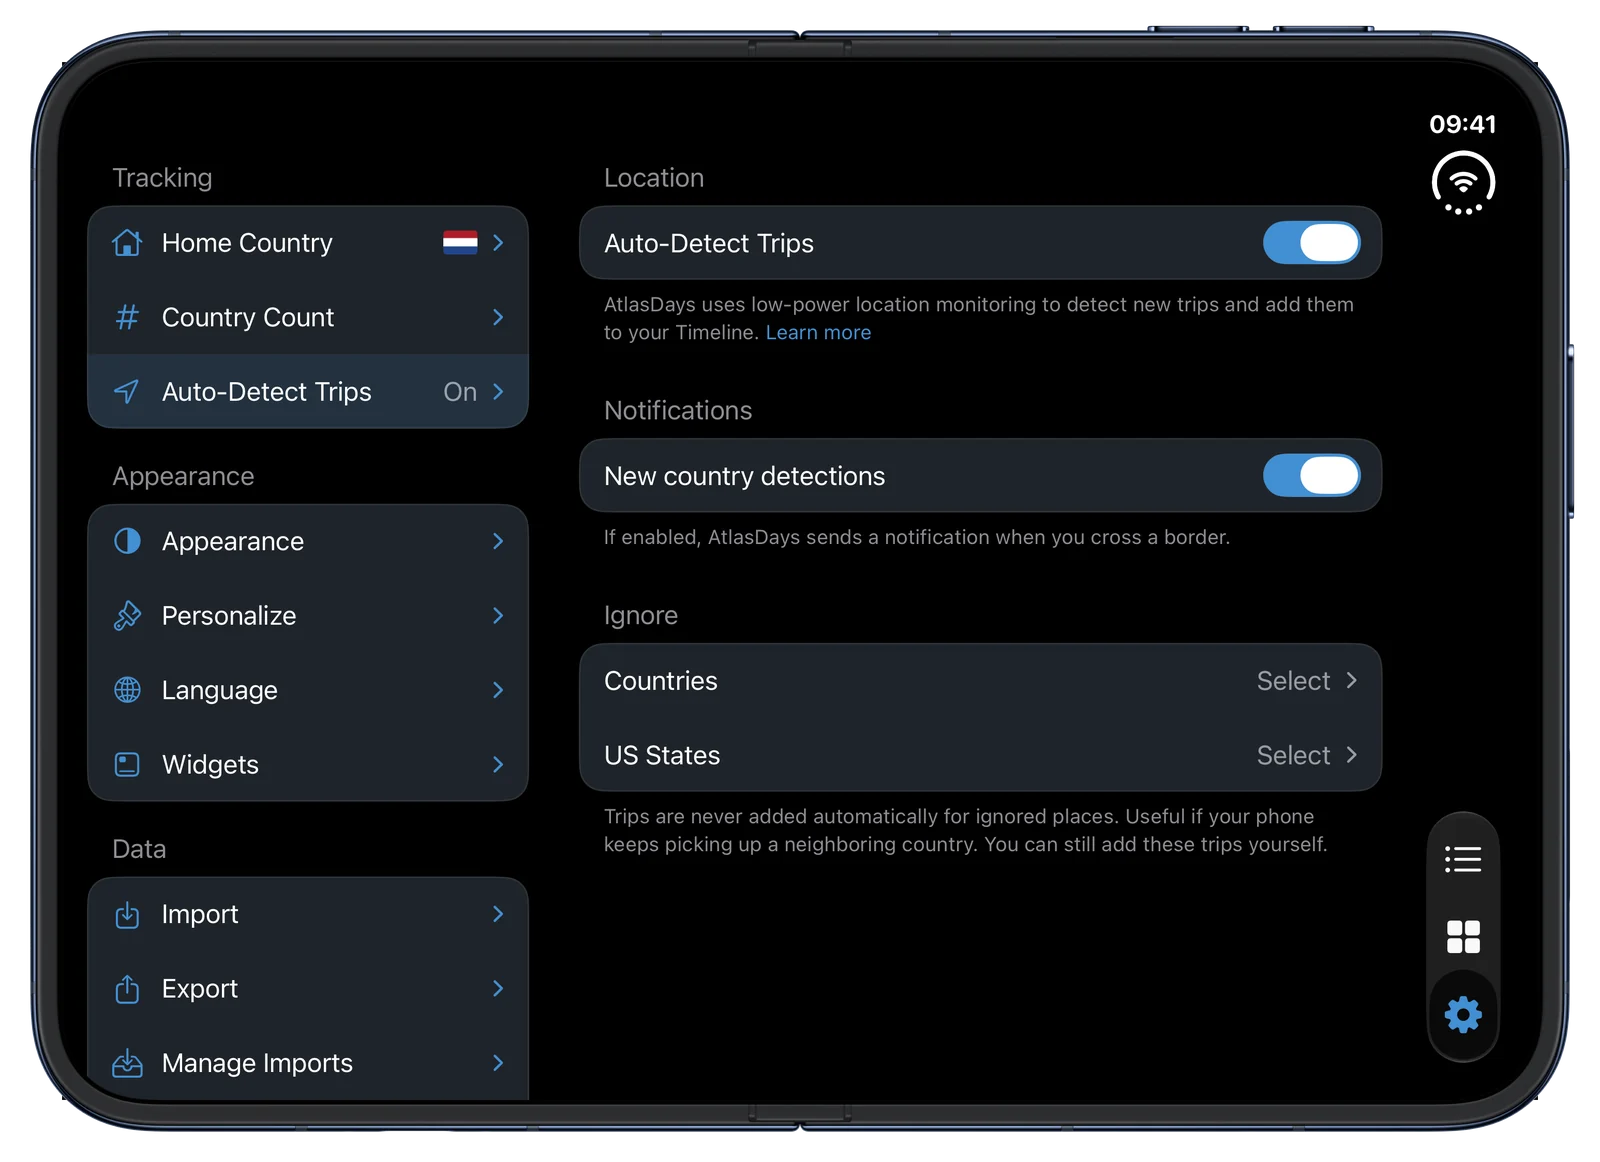
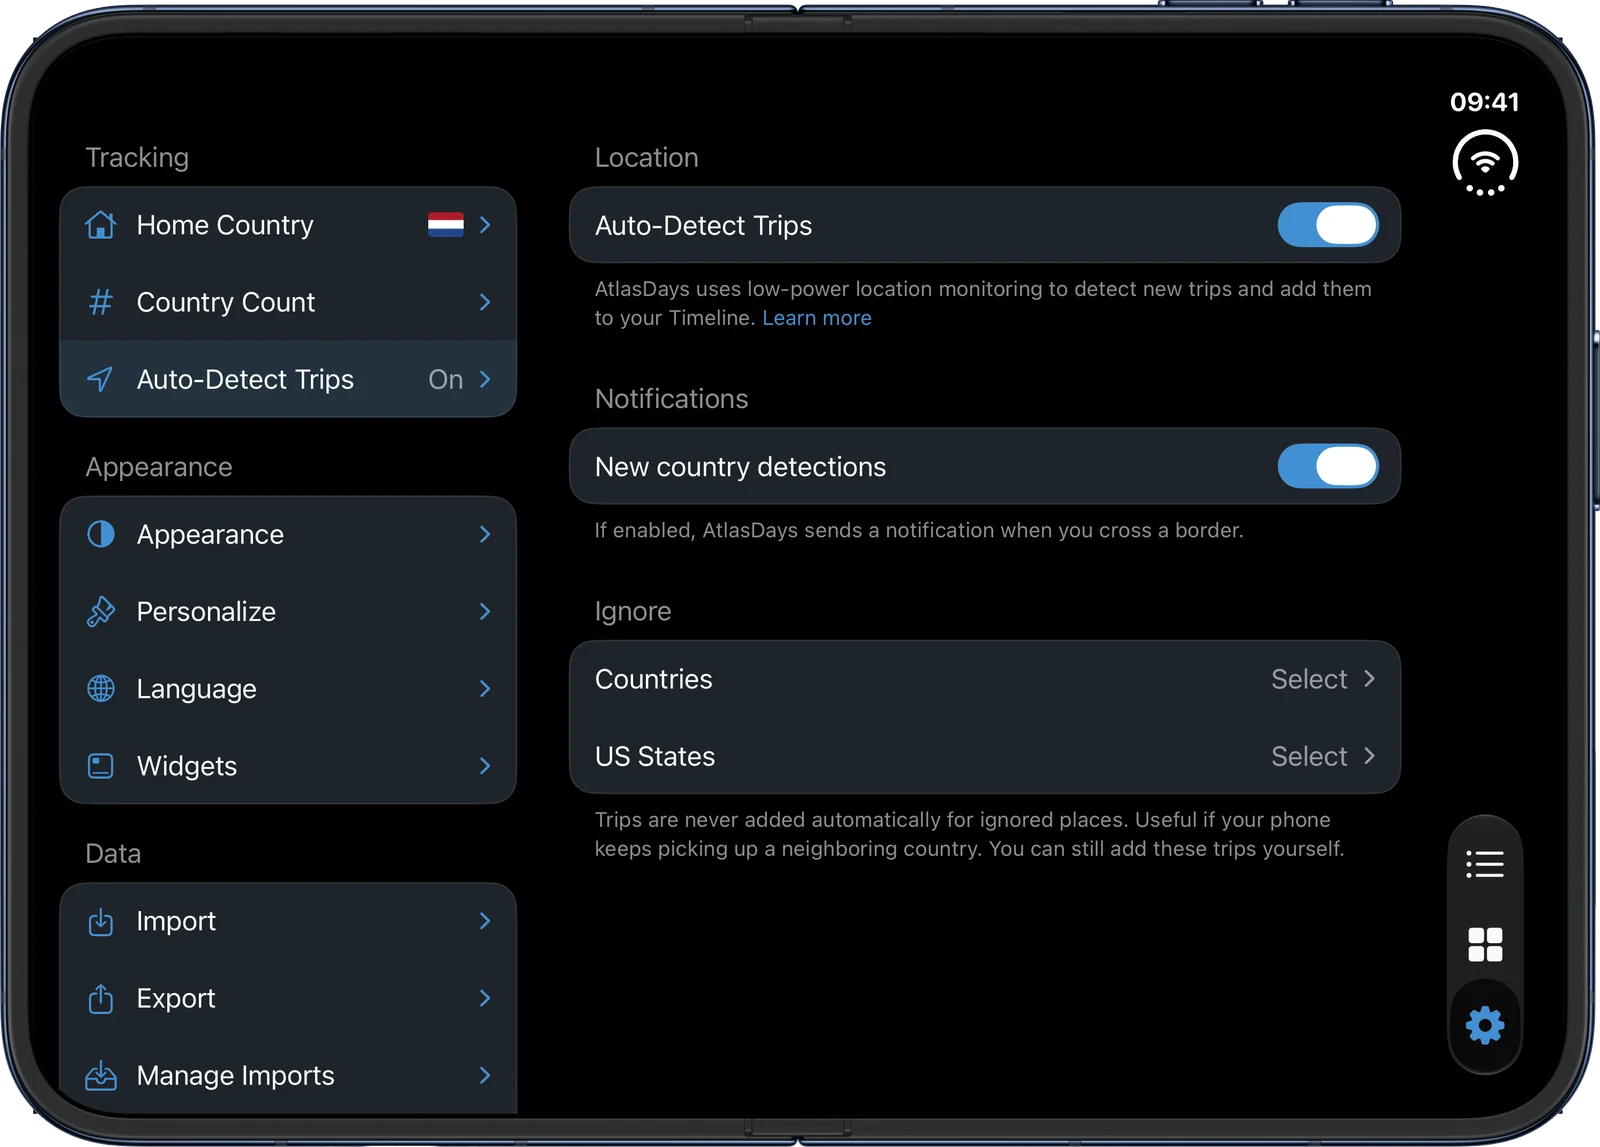
Press: closed and opened Duos stand level in every pair
Apple's closed and opened frames carry different transparent margins
(32px versus 71px below the device), so bottom-aligned pairs left the
closed Duo lower. The pair images are now cropped to the device edges and
sized at one scale.

Changed region(s): [[0.0, 0.0, 1.0, 1.0], [0.3438, 0.3357, 0.875, 0.4577], [0.375, 0.4577, 0.7812, 0.4882]]

diff --git a/press/iphone-duo/index.html b/press/iphone-duo/index.html
@@ -53,10 +53,11 @@
     figure img { display: block; width: 100%; height: auto; }
     figcaption { color: var(--muted); font-size: 14px; text-align: center; margin-top: 12px; }
 
-    /* Closed beside opened at one scale: the frames are 1574 and 3093 px wide at the
-       same pixel density, so the closed width is 0.509 of the opened one. */
+    /* Closed beside opened at one scale: the images are cropped to the device
+       edges, 1531 and 2985 px wide at the same pixel density, so the closed
+       width is 0.513 of the opened one and both devices stand the same height. */
     .pair { display: flex; align-items: flex-end; justify-content: center; gap: 4%; }
-    .pair .closed { flex: 0 0 auto; width: 30.5%; }
+    .pair .closed { flex: 0 0 auto; width: 30.77%; }
     .pair .open { flex: 0 0 auto; width: 60%; }
     .single { max-width: 900px; margin: 0 auto; }
 
@@ -73,7 +74,7 @@
 
     @media (max-width: 720px) {
       .pair { flex-direction: column; align-items: center; gap: 28px; }
-      .pair .closed { width: 51%; }
+      .pair .closed { width: 51.3%; }
       .pair .open { width: 100%; }
       section { padding: 44px 0; }
       .hero { padding-top: 44px; }
@@ -100,11 +101,11 @@
         <p class="section-copy">The Timeline splits on the crease: the calendar on the left, trips on the right. The right pane continues what the closed display showed, so unfolding never jumps or reloads. Fold it again and the right pane is what stays.</p>
         <div class="pair">
           <figure class="closed">
-            <img src="/assets/press/iphone-duo/timeline-closed.webp" alt="AtlasDays Timeline on the closed iPhone Duo: a list of trips with flags, dates and day counts" width="760" height="1059" />
+            <img src="/assets/press/iphone-duo/timeline-closed.webp" alt="AtlasDays Timeline on the closed iPhone Duo: a list of trips with flags, dates and day counts" width="760" height="1061" />
             <figcaption>Closed</figcaption>
           </figure>
           <figure class="open">
-            <img src="/assets/press/iphone-duo/timeline-open.webp" alt="AtlasDays Timeline on the opened iPhone Duo in landscape: the month calendar on the left and the trip list on the right" width="1600" height="1162" />
+            <img src="/assets/press/iphone-duo/timeline-open.webp" alt="AtlasDays Timeline on the opened iPhone Duo in landscape: the month calendar on the left and the trip list on the right" width="1600" height="1147" />
             <figcaption>Opened</figcaption>
           </figure>
         </div>
@@ -115,11 +116,11 @@
         <p class="section-copy">Closed, your trackers sit in a carousel above the statistics and the map. Open it and they line up side by side, and every statistic gets its own bar: countries, US states, days at home and abroad, continents.</p>
         <div class="pair">
           <figure class="closed">
-            <img src="/assets/press/iphone-duo/dashboard-closed.webp" alt="AtlasDays dashboard on the closed iPhone Duo: a Georgia residency tracker in a carousel, four statistics and a world map of visited countries" width="760" height="1059" />
+            <img src="/assets/press/iphone-duo/dashboard-closed.webp" alt="AtlasDays dashboard on the closed iPhone Duo: a Georgia residency tracker in a carousel, four statistics and a world map of visited countries" width="760" height="1061" />
             <figcaption>Closed</figcaption>
           </figure>
           <figure class="open">
-            <img src="/assets/press/iphone-duo/dashboard-open.webp" alt="AtlasDays dashboard on the opened iPhone Duo in landscape with two trackers side by side and four statistics with progress bars" width="1600" height="1162" />
+            <img src="/assets/press/iphone-duo/dashboard-open.webp" alt="AtlasDays dashboard on the opened iPhone Duo in landscape with two trackers side by side and four statistics with progress bars" width="1600" height="1147" />
             <figcaption>Opened</figcaption>
           </figure>
         </div>
@@ -130,11 +131,11 @@
         <p class="section-copy">Trackers forecast your planned trips. Here it is the Schengen 90/180 rule, with the dashed line showing the days still to come. Opened, the summary and chart sit beside the trips that count.</p>
         <div class="pair">
           <figure class="closed">
-            <img src="/assets/press/iphone-duo/tracker-closed.webp" alt="Schengen tracker on the closed iPhone Duo: 85 of 90 days used and a chart with a dashed forecast" width="760" height="1059" />
+            <img src="/assets/press/iphone-duo/tracker-closed.webp" alt="Schengen tracker on the closed iPhone Duo: 85 of 90 days used and a chart with a dashed forecast" width="760" height="1061" />
             <figcaption>Closed</figcaption>
           </figure>
           <figure class="open">
-            <img src="/assets/press/iphone-duo/tracker-open.webp" alt="Schengen tracker on the opened iPhone Duo in landscape: the summary and forecast chart on the left, the trips that count on the right" width="1600" height="1162" />
+            <img src="/assets/press/iphone-duo/tracker-open.webp" alt="Schengen tracker on the opened iPhone Duo in landscape: the summary and forecast chart on the left, the trips that count on the right" width="1600" height="1147" />
             <figcaption>Opened</figcaption>
           </figure>
         </div>
@@ -154,11 +155,11 @@
         <p class="section-copy">Closed, Settings is the familiar list. Opened, it becomes a sidebar with the page you picked beside it, so changing auto-detect or your home country never takes you away from the list.</p>
         <div class="pair">
           <figure class="closed">
-            <img src="/assets/press/iphone-duo/settings-closed.webp" alt="AtlasDays Settings on the closed iPhone Duo: Tracking, Appearance and Data sections in a list" width="760" height="1059" />
+            <img src="/assets/press/iphone-duo/settings-closed.webp" alt="AtlasDays Settings on the closed iPhone Duo: Tracking, Appearance and Data sections in a list" width="760" height="1061" />
             <figcaption>Closed</figcaption>
           </figure>
           <figure class="open">
-            <img src="/assets/press/iphone-duo/settings-open.webp" alt="AtlasDays Settings on the opened iPhone Duo in landscape: the settings list as a sidebar on the left and the Auto-Detect Trips page on the right" width="1600" height="1162" />
+            <img src="/assets/press/iphone-duo/settings-open.webp" alt="AtlasDays Settings on the opened iPhone Duo in landscape: the settings list as a sidebar on the left and the Auto-Detect Trips page on the right" width="1600" height="1147" />
             <figcaption>Opened</figcaption>
           </figure>
         </div>
